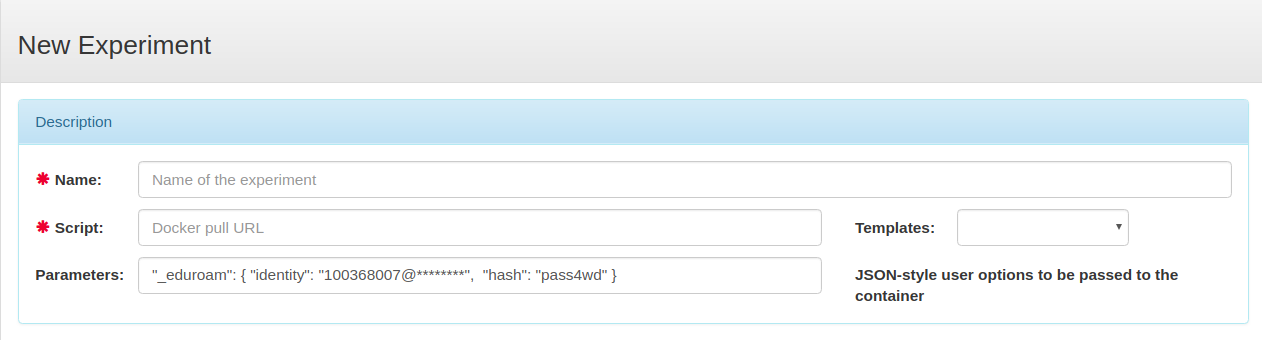
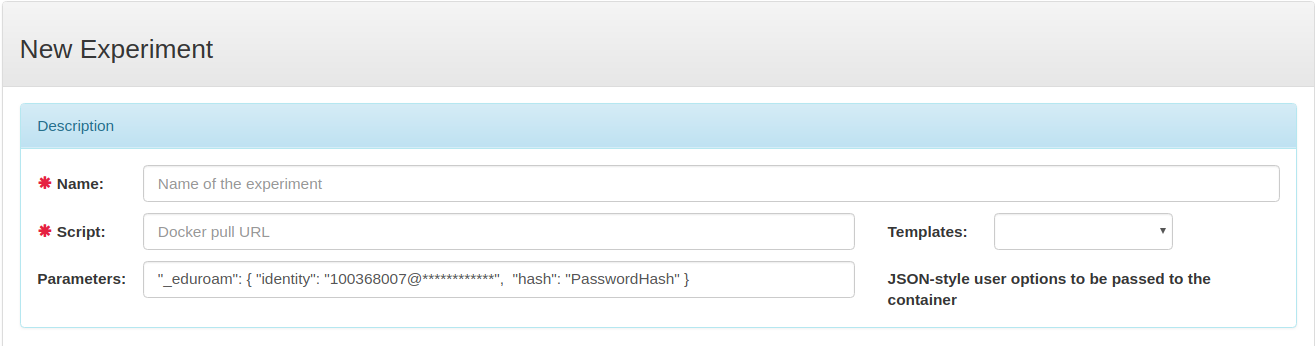
minor changes

diff --git a/user_manual.tex b/user_manual.tex
@@ -846,7 +846,7 @@ Additionally, the user may specify the following restrictions (Figure~\ref{fig:n
 \label{subsec:eduoroam}
 In the additional option tab experimenters can use eduroam, which is a roaming service for researchers or students in universities across Europe, to use eduoroam see Figure~\ref{fig:edu} the key values are similar to:
 {\VerbatimFont\begin{verbatim}
-	"_eduroam": { "identity": "100368007@****",  "hash": "passw4d" }
+	"_eduroam": { "identity": "100368007@****",  "hash": "YourpasswdHash" }
 	\end{verbatim}
 When the experiments starts the docker container will initialize wpa\_supplicant to bring up the Wlan0 interface up, as it will be available in the network namespace alongside op0, op1. The start log and the container network namespace will be similar to:
 {\VerbatimFont\begin{verbatim}
